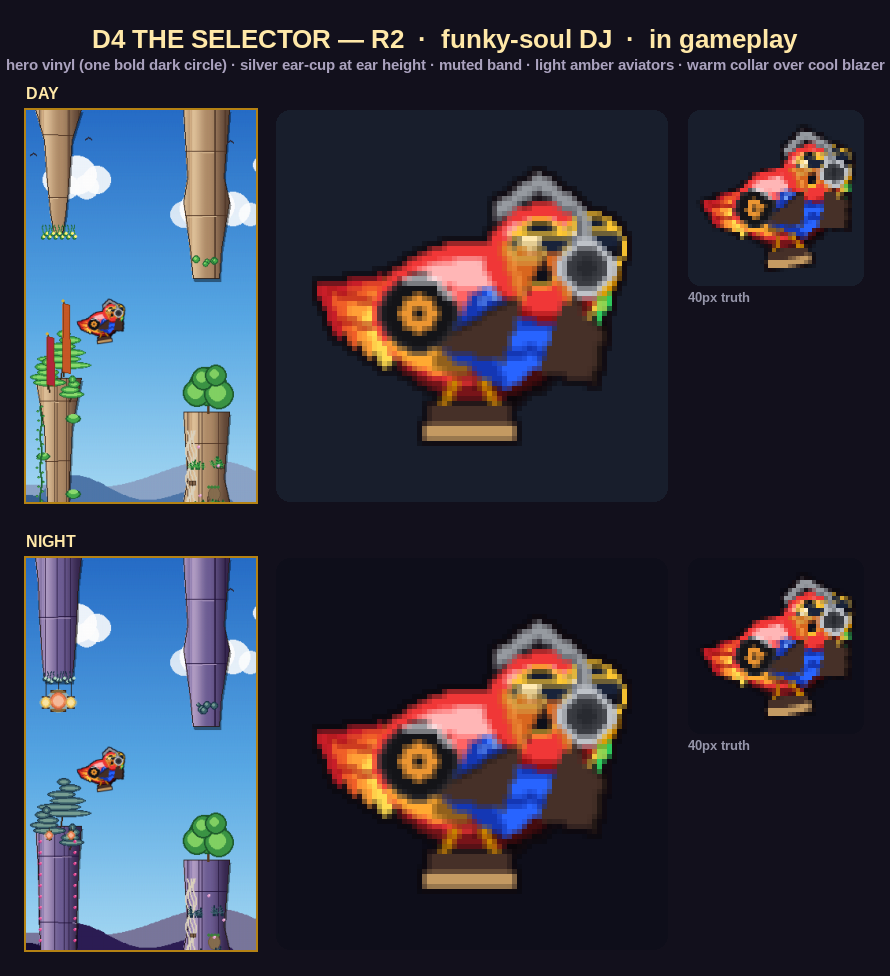
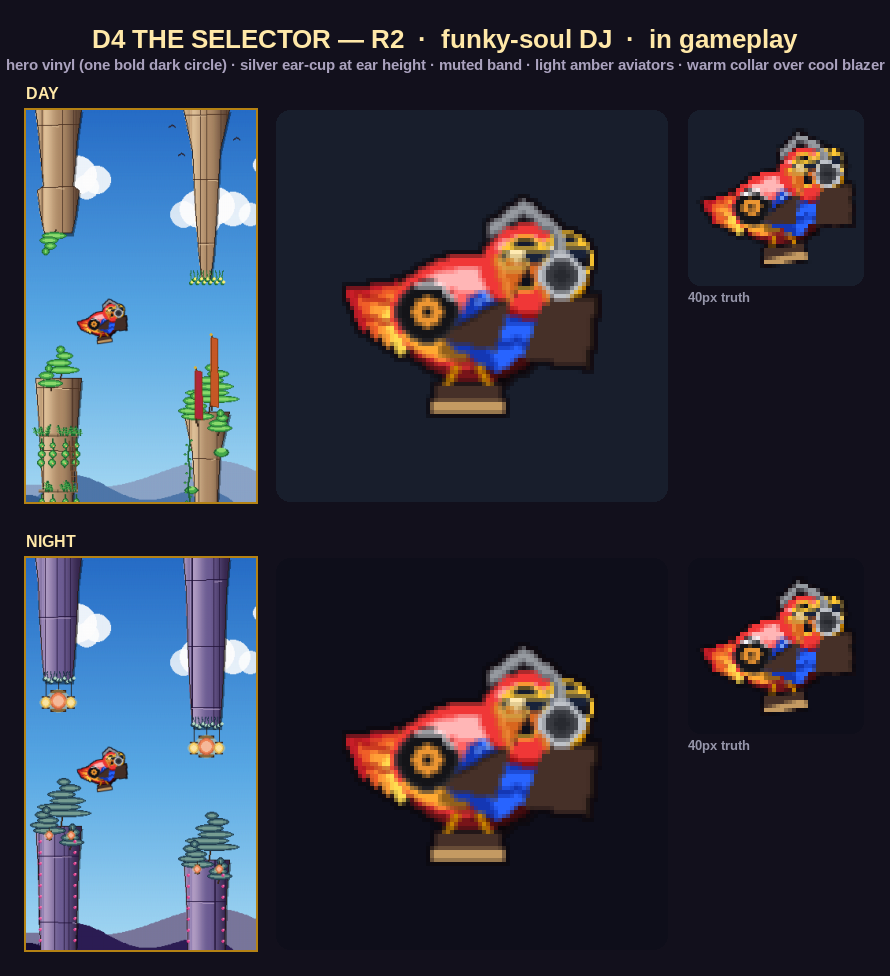
Disco redesign: final comparison figure (original + 5 R2 designs)

diff --git a/tools/render_disco_compare.py b/tools/render_disco_compare.py
@@ -1,0 +1,81 @@
+"""Disco costume redesign comparison — ORIGINAL vs 5 candidates (R2 finals).
+
+Run headless from repo root:
+  SDL_VIDEODRIVER=dummy python -m tools.render_disco_compare
+"""
+from __future__ import annotations
+import os
+os.environ.setdefault("SDL_VIDEODRIVER", "dummy")
+os.environ.setdefault("SDL_AUDIODRIVER", "dummy")
+
+import importlib
+import pygame
+pygame.init()
+
+import tools.ninja_render as nr
+from game.hud import _font, _GOLD_PALE, _GOLD_DEEP
+
+COLUMNS = [
+    ("ORIGINAL",  "DISCO",          "skin_disco"),
+    ("DESIGN 1",  "BOOGIE NIGHTS",  "design_1"),
+    ("DESIGN 2",  "STARDUST DIVA",  "design_2"),
+    ("DESIGN 3",  "ROLLER GROOVE",  "design_3"),
+    ("DESIGN 4",  "THE SELECTOR",   "design_4"),
+    ("DESIGN 5",  "MIRRORBALL",     "design_5"),
+]
+
+
+def _source(spec):
+    if spec == "skin_disco":
+        return spec
+    mod = importlib.import_module(f"tools.disco_candidates.{spec}")
+    return mod.build
+
+
+PANEL_W, PANEL_H = 200, 360
+HERO_BOX = 200
+HERO_GAP = 10
+PAD, GUTTER = 20, 14
+TITLE_H, CAP_H = 64, 48
+n = len(COLUMNS)
+
+sheet_w = PAD * 2 + n * PANEL_W + (n - 1) * GUTTER
+sheet_h = TITLE_H + PANEL_H + HERO_GAP + HERO_BOX + CAP_H + PAD
+sheet = pygame.Surface((sheet_w, sheet_h))
+sheet.fill((18, 16, 28))
+
+title = _font(22, True).render(
+    "DISCO REDESIGN — ORIGINAL vs DESIGNS 1–5 (R2 FINALS)",
+    True, _GOLD_PALE)
+sheet.blit(title, title.get_rect(midtop=(sheet_w // 2, 18)))
+
+name_font = _font(13, True)
+tag_font  = _font(11, True)
+
+for i, (tag, name, spec) in enumerate(COLUMNS):
+    src = _source(spec)
+    x = PAD + i * (PANEL_W + GUTTER)
+
+    y = TITLE_H
+    panel = nr.gameplay_panel(src, PANEL_W, PANEL_H)
+    border = (170, 170, 170) if spec == "skin_disco" else (*_GOLD_DEEP,)
+    pygame.draw.rect(sheet, border,
+                     pygame.Rect(x - 2, y - 2, PANEL_W + 4, PANEL_H + 4), width=2)
+    sheet.blit(panel, (x, y))
+
+    hy = y + PANEL_H + HERO_GAP
+    hero = nr.hero_panel(src, HERO_BOX, tilt=0.0)
+    pygame.draw.rect(sheet, border,
+                     pygame.Rect(x - 2, hy - 2, HERO_BOX + 4, HERO_BOX + 4), width=2)
+    sheet.blit(hero, (x, hy))
+
+    cy = hy + HERO_BOX + 6
+    tagimg  = tag_font.render(tag,  True, (170, 162, 190))
+    nameimg = name_font.render(name, True, _GOLD_PALE)
+    sheet.blit(tagimg,  (x + 2, cy))
+    sheet.blit(nameimg, (x + 2, cy + 16))
+
+out = os.path.join("docs", "store_redesign", "costume", "disco", "final_comparison.png")
+os.makedirs(os.path.dirname(out), exist_ok=True)
+pygame.image.save(sheet, out)
+print("SAVED", out, sheet.get_size())
